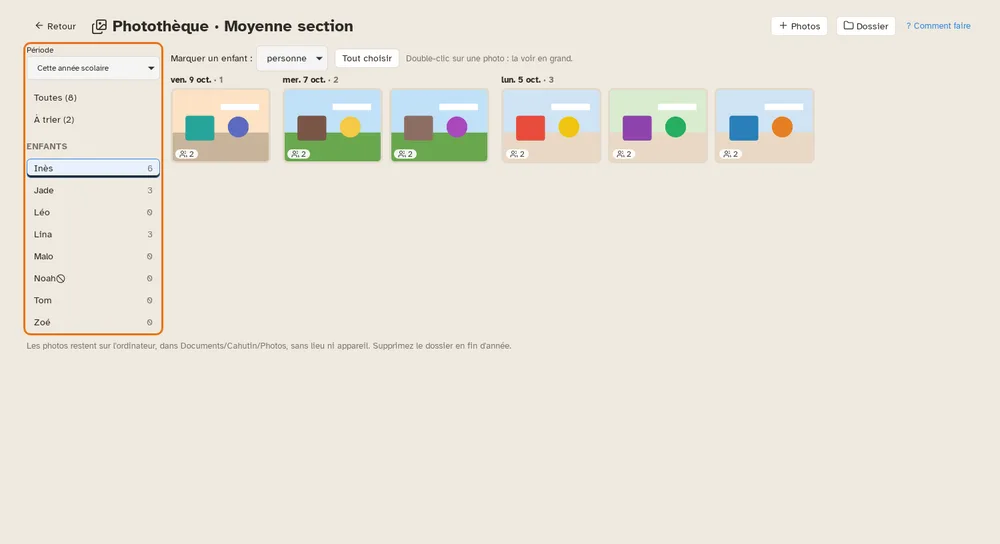
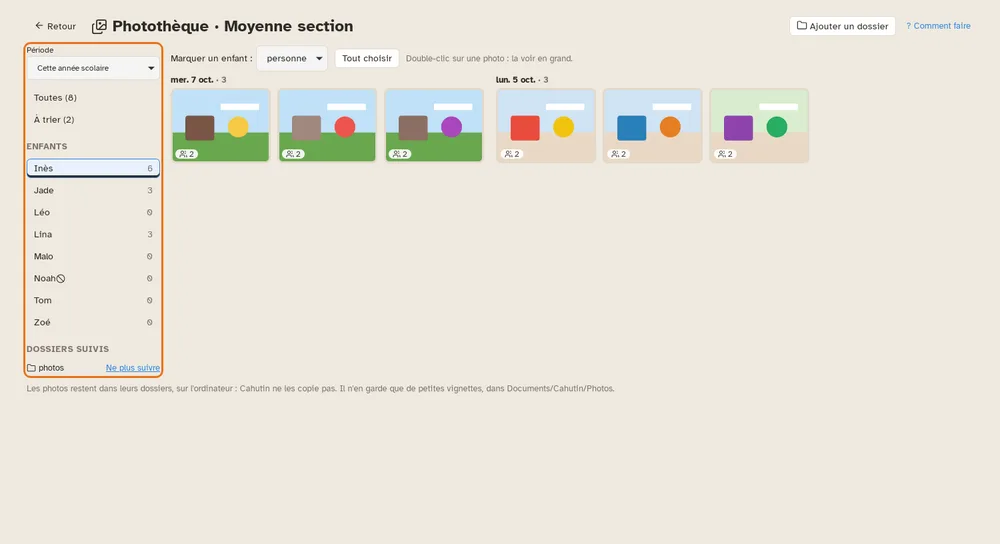
docs(photothèque): README et images du guide pour les dossiers suivis
Les captures du guide suivent le dossier de photos générées au lieu de les copier.

Claude-Session: https://claude.ai/code/session_01RanHT1NAXUmG4egyrYmVsU

Changed region(s): [[0.155, 0.125, 0.837, 0.3125], [0.0, 0.5938, 0.62, 0.7188], [0.775, 0.0312, 0.868, 0.0625]]

diff --git a/README.md b/README.md
@@ -52,7 +52,7 @@ Au premier lancement, Cahutin demande s'il doit vous prévenir quand une nouvell
 - **Exemples** à découvrir depuis l'écran d'accueil : Sortie à la ferme, Joyeux anniversaire, La météo de la semaine, J'écris mon prénom, Les saisons, Notre semaine (emploi du temps), Le loto des émotions, J'écris les jours, Les règles de la classe (A3), Mes cinq sens, Étiquettes de porte-manteau.
 - **Photos** : import d'un dossier entier, photos du document (tiroir Images, une croix pour en retirer une), recadrage, miroir, coins arrondis, bordure, ombre, légende, flou des visages (repérés sur l'ordinateur ou tracés à la main) pour les enfants sans autorisation photo.
 - **Textes** : gras, italique, souligné, couleurs, alignement ; polices lisibles pour l'école fournies (Andika, Atkinson Hyperlegible, OpenDyslexic, Playwrite FR Moderne pour la cursive), polices ajoutées et polices installées sur l'ordinateur ; lettres à repasser ou creuses, lignes d'écriture dans un cadre (Seyès, lignes, petits carreaux), styles de texte nommés (Titre, Consigne, Prénom, les vôtres) qui se modifient d'un coup.
-- **Classe** : liste des élèves (photo avec autorisation, symbole, niveau, groupe, date de naissance), collée ou importée d'un tableur ou d'un export ONDE (.csv), gardée sur l'ordinateur, avec la photothèque de l'année : photos rangées par jour, élèves présents et activités cochés d'un clic (photo en grand, « Marquer un enfant »), enfants peu photographiés signalés. Réglages d'un coup pour une grande classe (autorisation photo, un symbole par enfant, et un même niveau ou un même groupe pour les élèves cochés). Génération d'une page par élève, d'une planche d'étiquettes remplie ou d'une affiche, pour toute la classe, un niveau, un groupe ou les élèves cochés un par un ; champs de la classe posés depuis le tiroir Champs ou le bouton « { } Champ » ({prenom}, {nom}, {groupe}, {age}, {anniversaire}, lettres du prénom), affichés en pastille, imprimés en blanc tant qu'ils ne sont pas remplis ; date (plusieurs formats), année scolaire, saison, classe, école et enseignant, écrits à la pose ou à la création de la page.
+- **Classe** : liste des élèves (photo avec autorisation, symbole, niveau, groupe, date de naissance), collée ou importée d'un tableur ou d'un export ONDE (.csv), gardée sur l'ordinateur, avec la photothèque de l'année : les dossiers de photos de l'enseignant, suivis sans être copiés (seules de petites vignettes sont gardées), photos rangées par jour, élèves présents et activités cochés d'un clic (photo en grand, « Marquer un enfant »), enfants peu photographiés signalés. Réglages d'un coup pour une grande classe (autorisation photo, un symbole par enfant, et un même niveau ou un même groupe pour les élèves cochés). Génération d'une page par élève, d'une planche d'étiquettes remplie ou d'une affiche, pour toute la classe, un niveau, un groupe ou les élèves cochés un par un ; champs de la classe posés depuis le tiroir Champs ou le bouton « { } Champ » ({prenom}, {nom}, {groupe}, {age}, {anniversaire}, lettres du prénom), affichés en pastille, imprimés en blanc tant qu'ils ne sont pas remplis ; date (plusieurs formats), année scolaire, saison, classe, école et enseignant, écrits à la pose ou à la création de la page.
 - **Tableaux** : cases avec texte, pictogramme ou photo, lignes et colonnes à ajouter ou retirer, cases fusionnées, traits réglables.
 - **Formes** : rectangle, ellipse, trait, flèche, étoile, cœur, bulle de parole, nuage ; fiches de graphisme (ponts, vagues, boucles, créneaux… à repasser, à la taille de la section ; pointillés sur toute la ligne, sur une partie ou de moins en moins d'une ligne à l'autre, lignes guides ou couloir, point vert et flèche de départ, réglables même une fois les lignes posées), chemins en pointillés, labyrinthes, dessins à compléter par symétrie, repères pour écrire (point de départ, flèche).
 - **Images** : un seul tiroir pour les photos du document (et la photothèque de la classe), la Collection (les dessins et illustrations de l'enseignant, gardés pour tous ses documents ; une image posée s'y ajoute d'un clic ; une page « Ma collection », depuis l'accueil, les range par thème, les renomme et remet les images retirées) et plus de 2 000 pictogrammes OpenMoji avec recherche en français (catégories Rituels, Matériel, Émotions, Corps et soins pour la classe), personnes et mains dans cinq couleurs de peau, images à colorier (contour noir). Une recherche cherche à la fois dans la Collection et les pictogrammes.
@@ -84,7 +84,7 @@ En détail :
   Il n'envoie jamais les textes des documents, les photos, les noms de fichiers, la liste de la classe (prénoms, dates de naissance, autorisations) ni les noms de vos styles. N'écrivez donc pas de prénom ni d'information sur un élève dans une demande. Le service voit aussi l'adresse IP de la connexion, et traite ce qu'il reçoit selon ses propres conditions, sous votre compte : rien n'est envoyé à l'auteur de Cahutin. Avec Ollama sur l'ordinateur, rien ne sort. La clé du service est enregistrée sur l'ordinateur, dans les réglages de Cahutin (`assistant.json`), et n'est envoyée qu'à l'adresse de ce service, toujours chiffrée (`https://`, sauf pour un service sur l'ordinateur). L'assistant se désactive dans Préférences > Assistant, où « Oublier la clé » l'efface.
 - Les métadonnées des photos (lieu, appareil, date) sont retirées à l'import.
 - Le repérage des visages, pour flouter ceux des enfants sans autorisation photo, se fait sur l'ordinateur par un modèle intégré à l'application, et seulement avec votre accord. Il trouve où sont les visages, sans jamais reconnaître qui est qui. La photo floutée remplace l'originale dans le document.
-- La liste de la classe reste sur l'ordinateur, dans `Documents/Cahutin/Classes`, et sa photothèque dans `Documents/Cahutin/Photos` (photos sans lieu ni appareil ; seule la date de prise de vue est gardée). Les enfants présents sur une photo sont indiqués à la main : aucun visage n'est reconnu.
+- La liste de la classe reste sur l'ordinateur, dans `Documents/Cahutin/Classes`, et sa photothèque dans `Documents/Cahutin/Photos` : les photos restent dans leurs dossiers, Cahutin n'en garde que le chemin, la date de prise de vue et de petites vignettes (ni lieu ni appareil). Les enfants présents sur une photo sont indiqués à la main : aucun visage n'est reconnu.
 - Le journal de l'application ne contient ni texte de document, ni nom de fichier, ni prénom d'enfant. Le rapport de problème (Aide > Signaler un problème) reprend seulement ce journal : Cahutin l'enregistre, puis ouvre votre messagerie sur un message à cahutin.pavilion366@slmail.me, où vous le joignez ; c'est vous qui relisez et envoyez, Cahutin n'envoie rien lui-même.
 - Les photos importées sont copiées dans un dossier temporaire vidé à la fermeture ; un document enregistré (`.carnet`) contient ses propres photos.
 - Une copie de secours du document ouvert est écrite toutes les deux minutes dans le dossier de l'application (`secours`), avec ses photos ; elle est effacée à chaque enregistrement et quand vous quittez le document ; au lancement suivant, Cahutin propose de la reprendre.
@@ -97,7 +97,7 @@ En détail :
 | `.carnet-modele` | Modèle personnel, à copier dans `%APPDATA%\fr.cahutin.app\modeles` (Windows) ou `~/.local/share/fr.cahutin.app/modeles` (Linux) sur un autre poste. |
 | `.cahutin-classe` | Liste d'une classe (prénoms, photos et autorisations), rangée dans `Documents/Cahutin/Classes`. |
 | Images (`.png`, `.jpg`, `.webp`, `.svg`) | Collection : dans `Documents/Cahutin/Images` ; on peut aussi y déposer des fichiers avec l'explorateur. Une image retirée n'est pas effacée : elle va dans le sous-dossier `Retirées`. Les thèmes sont notés dans `themes.json`, à côté des images. Posée sur une page, une image est copiée dans le carnet. |
-| `phototheque.json` | Photothèque d'une classe : dans `Documents/Cahutin/Photos/<classe>`, à côté des photos, les élèves présents et les activités de chacune. |
+| `phototheque.json` | Photothèque d'une classe : dans `Documents/Cahutin/Photos/<classe>`, les dossiers suivis, le chemin de chaque photo, ses élèves présents et ses activités. Les vignettes sont dans le sous-dossier `.vignettes`. Une photo déplacée ou renommée dans un dossier suivi est retrouvée ; une photo absente (clé USB débranchée) garde ses informations pour son retour. |
 | `.odg` | Export pour LibreOffice Draw. |
 
 ## Développement
